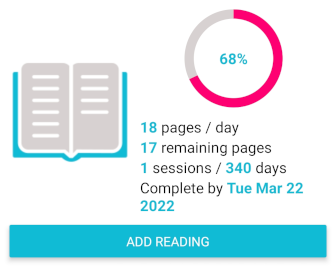
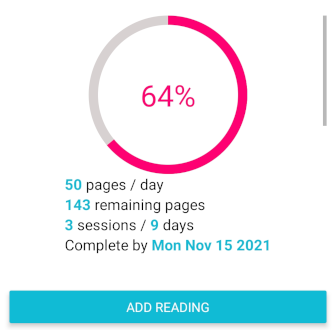
Update help

diff --git a/components/image/AssetImage.js b/components/image/AssetImage.js
@@ -10,6 +10,7 @@ const assets = {
     '/menu/lock.png': require('../../assets/menu/lock.png'),
 
     '/help/reading-session-progress.png': require('../../assets/help/reading-session-progress.png'),
+    '/help/reading-session-progress-chart.png': require('../../assets/help/reading-session-progress-chart.png'),
     '/help/add-book.png': require('../../assets/help/add-book.png'),
     '/help/edit-book.png': require('../../assets/help/edit-book.png'),
     '/help/delete-book.png': require('../../assets/help/delete-book.png'),

diff --git a/assets/help/HelpContent.js b/assets/help/HelpContent.js
@@ -7,6 +7,8 @@ I needed to know when I will finish a book based on my current reading speed and
 
 ![reading-session-progress](reading-session-progress.png)
 
+![reading-session-progress-chart](reading-session-progress-chart.png)
+
 In order to have similar results you'll have to manage the books and corresponding reading sessions.
 
 ## Add a book
